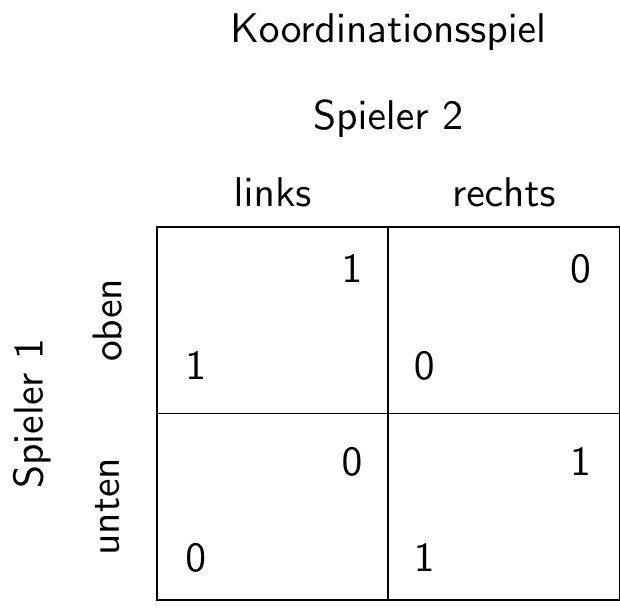
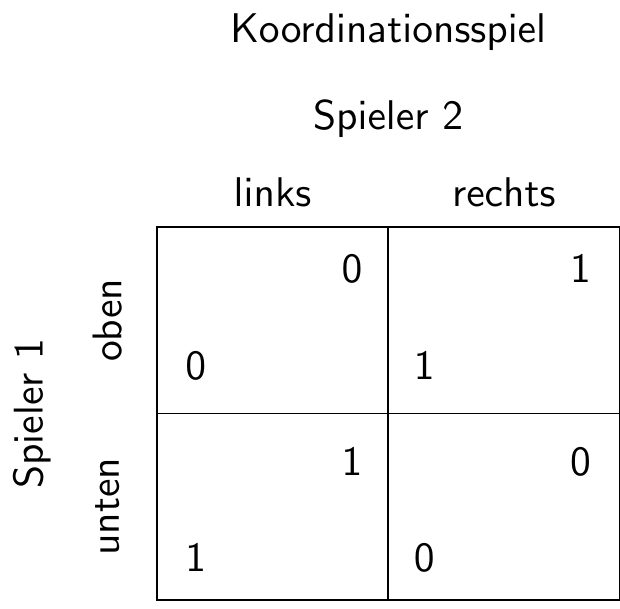
Spiele korrigiert

diff --git a/docs/Spieltheorie.html b/docs/Spieltheorie.html
@@ -292,7 +292,7 @@ window.Quarto = {
 </section>
 <section id="einperiodige-spiele" class="level4" data-number="3.3.2.2">
 <h4 data-number="3.3.2.2" class="anchored" data-anchor-id="einperiodige-spiele"><span class="header-section-number">3.3.2.2</span> Einperiodige Spiele</h4>
-<div id="ed754728" class="cell" data-execution_count="1">
+<div id="601db5dd" class="cell" data-execution_count="1">
 <details class="code-fold">
 <summary>Code</summary>
 <div class="sourceCode cell-code" id="cb1"><pre class="sourceCode python code-with-copy"><code class="sourceCode python"><span id="cb1-1"><a href="#cb1-1" aria-hidden="true" tabindex="-1"></a><span class="im">import</span> numpy <span class="im">as</span> np</span>
@@ -346,17 +346,17 @@ window.Quarto = {
 </details>
 <div class="cell-output cell-output-stdout">
 <pre><code>    l   r
-o  1,0  5,3
-u  1,1  5,1</code></pre>
+o  4,3  7,7
+u  5,4  8,9</code></pre>
 </div>
 </div>
-<div id="0ccf911e" class="cell" data-execution_count="2">
+<div id="cbd72b40" class="cell" data-execution_count="2">
 <details class="code-fold">
 <summary>Code</summary>
 <div class="sourceCode cell-code" id="cb3"><pre class="sourceCode python code-with-copy"><code class="sourceCode python"><span id="cb3-1"><a href="#cb3-1" aria-hidden="true" tabindex="-1"></a><span class="bu">print</span>(Nash_GG_filtered)</span></code><button title="Copy to Clipboard" class="code-copy-button"><i class="bi"></i></button></pre></div>
 </details>
 <div class="cell-output cell-output-stdout">
-<pre><code>['ul', 'or', 'ur']</code></pre>
+<pre><code>['ur']</code></pre>
 </div>
 </div>
 <section id="koordinationsspiel" class="level5" data-number="3.3.2.2.1">
@@ -367,7 +367,7 @@ u  1,1  5,1</code></pre>
 <figcaption>Koordinationsspiel</figcaption>
 </figure>
 </div>
-<div id="fd976e1a" class="cell" data-execution_count="3">
+<div id="d1cc87df" class="cell" data-execution_count="3">
 <details class="code-fold">
 <summary>Code</summary>
 <div class="sourceCode cell-code" id="cb5"><pre class="sourceCode python code-with-copy"><code class="sourceCode python"><span id="cb5-1"><a href="#cb5-1" aria-hidden="true" tabindex="-1"></a><span class="im">import</span> numpy <span class="im">as</span> np</span>
@@ -421,8 +421,8 @@ u  1,1  5,1</code></pre>
 </details>
 <div class="cell-output cell-output-stdout">
 <pre><code>    l   r
-o  0,0  6,6
-u  6,6  0,0
+o  0,0  5,5
+u  5,5  0,0
 ['ul', 'or']</code></pre>
 </div>
 </div>
@@ -435,7 +435,7 @@ u  6,6  0,0
 <figcaption>Chicken Game</figcaption>
 </figure>
 </div>
-<div id="16b39dac" class="cell" data-execution_count="4">
+<div id="fb2b8aeb" class="cell" data-execution_count="4">
 <details class="code-fold">
 <summary>Code</summary>
 <div class="sourceCode cell-code" id="cb7"><pre class="sourceCode python code-with-copy"><code class="sourceCode python"><span id="cb7-1"><a href="#cb7-1" aria-hidden="true" tabindex="-1"></a><span class="im">import</span> numpy <span class="im">as</span> np</span>
@@ -489,8 +489,8 @@ u  6,6  0,0
 </details>
 <div class="cell-output cell-output-stdout">
 <pre><code>    l   r
-o  5,7  2,9
-u  8,3  0,0
+o  6,7  2,9
+u  8,4  1,0
 ['ul', 'or']</code></pre>
 </div>
 </div>
@@ -503,7 +503,7 @@ u  8,3  0,0
 <figcaption>Geschlechterkampf</figcaption>
 </figure>
 </div>
-<div id="ca470394" class="cell" data-execution_count="5">
+<div id="7eea2213" class="cell" data-execution_count="5">
 <details class="code-fold">
 <summary>Code</summary>
 <div class="sourceCode cell-code" id="cb9"><pre class="sourceCode python code-with-copy"><code class="sourceCode python"><span id="cb9-1"><a href="#cb9-1" aria-hidden="true" tabindex="-1"></a><span class="im">import</span> numpy <span class="im">as</span> np</span>
@@ -557,8 +557,8 @@ u  8,3  0,0
 </details>
 <div class="cell-output cell-output-stdout">
 <pre><code>    l   r
-o  8,7  5,4
-u  1,1  6,9
+o  8,6  3,5
+u  2,0  6,9
 ['ol', 'ur']</code></pre>
 </div>
 </div>
@@ -571,7 +571,7 @@ u  1,1  6,9
 <figcaption>Gefangenendilemma</figcaption>
 </figure>
 </div>
-<div id="a31a529e" class="cell" data-execution_count="6">
+<div id="ba95e468" class="cell" data-execution_count="6">
 <details class="code-fold">
 <summary>Code</summary>
 <div class="sourceCode cell-code" id="cb11"><pre class="sourceCode python code-with-copy"><code class="sourceCode python"><span id="cb11-1"><a href="#cb11-1" aria-hidden="true" tabindex="-1"></a><span class="im">import</span> numpy <span class="im">as</span> np</span>
@@ -625,8 +625,8 @@ u  1,1  6,9
 </details>
 <div class="cell-output cell-output-stdout">
 <pre><code>    l   r
-o  7,7  1,8
-u  8,1  4,4
+o  6,7  1,8
+u  9,1  3,3
 ['ur']</code></pre>
 </div>
 </div>
